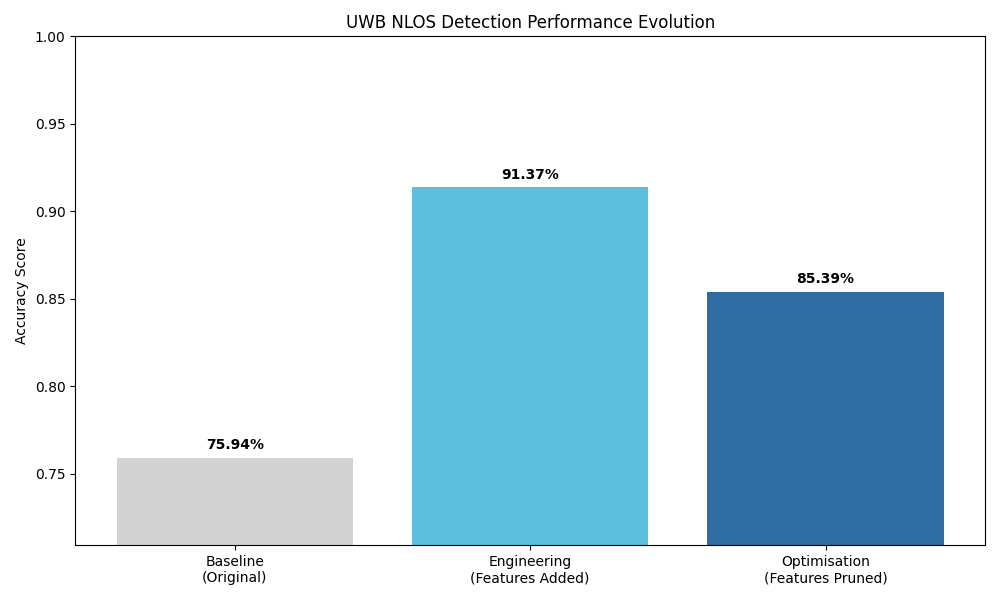
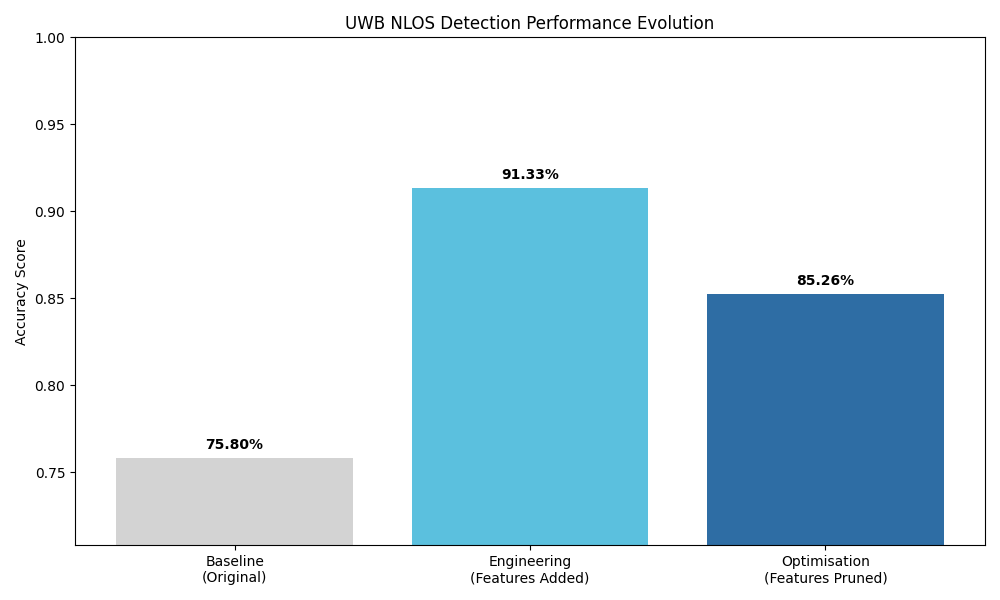
updated cross env validation for updated enhanced features

diff --git a/src/cross_env_validation.py b/src/cross_env_validation.py
@@ -9,6 +9,7 @@ from sklearn.metrics import mean_squared_error, accuracy_score
 SCRIPT_DIR = os.path.dirname(os.path.abspath(__file__))
 PROJECT_ROOT = os.path.abspath(os.path.join(SCRIPT_DIR, '..'))
 CLEANED_DATA_PATH = os.path.join(PROJECT_ROOT, 'data', 'processed', 'cleaned_data.csv')
+ENHANCED_FEATURES_PATH = os.path.join(PROJECT_ROOT, 'data', 'processed', 'enhanced_features.csv')
 METRICS_DIR = os.path.join(PROJECT_ROOT, 'results', 'metrics')
 
 # ENVIRONMENT MAPPING: map filename to actual name
@@ -23,16 +24,20 @@ ENV_NAMES = {
 }
 
 def get_features_and_labels(df):
-    # Features used in the project
-    features = ['FP_AMP1', 'STDEV_NOISE', 'CIR_PWR', 'RXPACC', 'FP_IDX', 'MAX_NOISE']
+    # Features used in this project
+    features = ['FP_AMP1', 'STDEV_NOISE', 'CIR_PWR', 'RXPACC', 'FP_IDX', 'MAX_NOISE',
+                'rms_delay', 'kurtosis', 'peak_amp']
     X = df[features]
     y_class = df['NLOS']
     y_reg = df['RANGE']
     return X, y_class, y_reg
 
 # Load the master dataset
-print(f"Loading cleaned data from: {CLEANED_DATA_PATH}")
-full_df = pd.read_csv(CLEANED_DATA_PATH)
+print(f"Loading enhanced features data from: {ENHANCED_FEATURES_PATH}")
+full_df = pd.read_csv(ENHANCED_FEATURES_PATH)
+
+source_files = pd.read_csv(CLEANED_DATA_PATH, usecols=['source_file'])
+full_df['source_file'] = source_files['source_file'].values
 
 # Get unique files from the data
 files = sorted(full_df['source_file'].unique())
